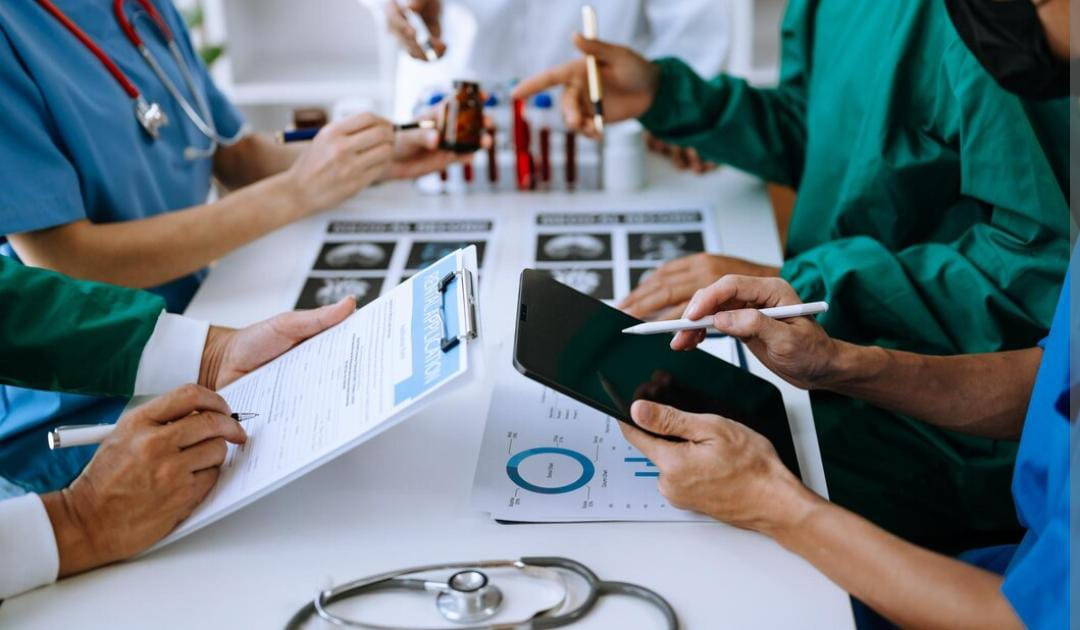
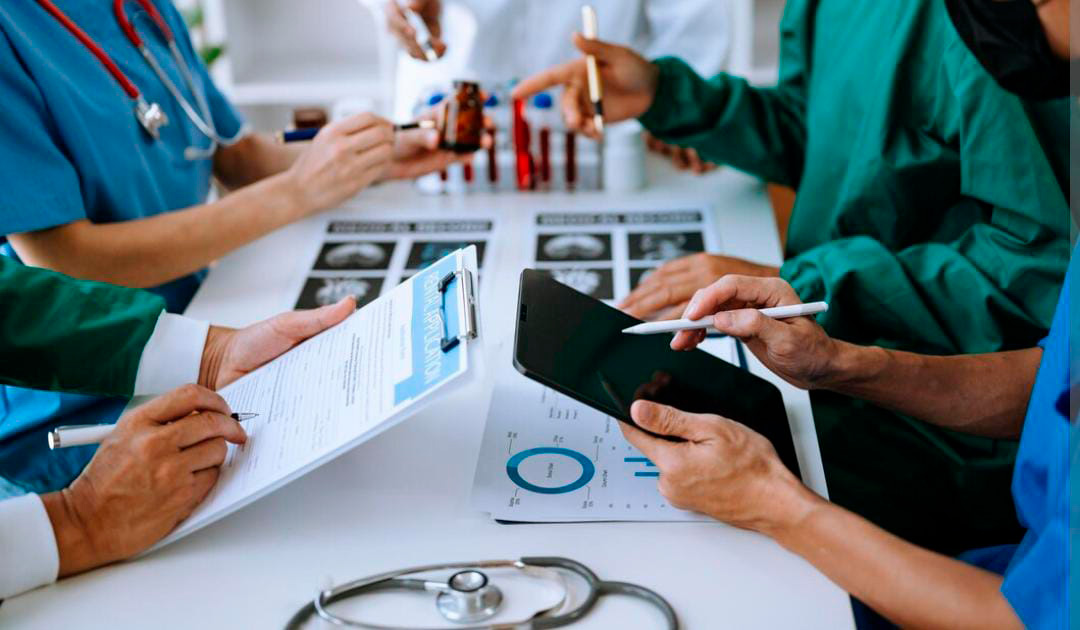
modified: ajustes imagenes

diff --git a/modalidades.html b/modalidades.html
@@ -138,7 +138,7 @@
               <div id="carouselExampleIndicators" class="carousel slide" data-ride="carousel" data-interval="5000">
                   <div class="carousel-inner">
                       <div class="carousel-item active">
-                          <img src="images/electroestudio.png" class="d-block w-100" alt="Electrocardiograma">
+                          <img src="images/electroestudio.jpg" class="d-block w-100" alt="Electrocardiograma">
                       </div>
                       <div class="carousel-item">
                           <img src="images/electroestudio2.jpg" class="d-block w-100" alt="Electrocardiograma 2">
@@ -208,7 +208,7 @@
                           <img src="images/mamografia.png" class="d-block w-100" alt="Mamografía">
                       </div>
                       <div class="carousel-item">
-                          <img src="images/mamografia2.webp" class="d-block w-100" alt="Mamografía 2">
+                          <img src="images/mamografia2.jpg" class="d-block w-100" alt="Mamografía 2">
                       </div>
                       <div class="carousel-item">
                           <img src="images/mamografia3.jpeg" class="d-block w-100" alt="Mamografía 3">
@@ -248,7 +248,7 @@
                       <img src="images/tomografia3.jpg" class="d-block w-100" alt="tomografia 3">
                   </div>
                   <div class="carousel-item">
-                      <img src="images/tomografia4.png" class="d-block w-100" alt="tomografia 4">
+                      <img src="images/tomografia4.jpg" class="d-block w-100" alt="tomografia 4">
                   </div>
               </div>
           </div>

diff --git a/productos.html b/productos.html
@@ -352,7 +352,7 @@
                 </p>
             </div>
             <div class="col-xl-6 col-sm-12">
-                <img src="images/visualizador_dicom.png" class="img-fluid" alt="VisualizadorDICOM">
+                <img src="images/visualizador_dicom.jpg" class="img-fluid" alt="VisualizadorDICOM">
             </div>
         </div>
     </div>
